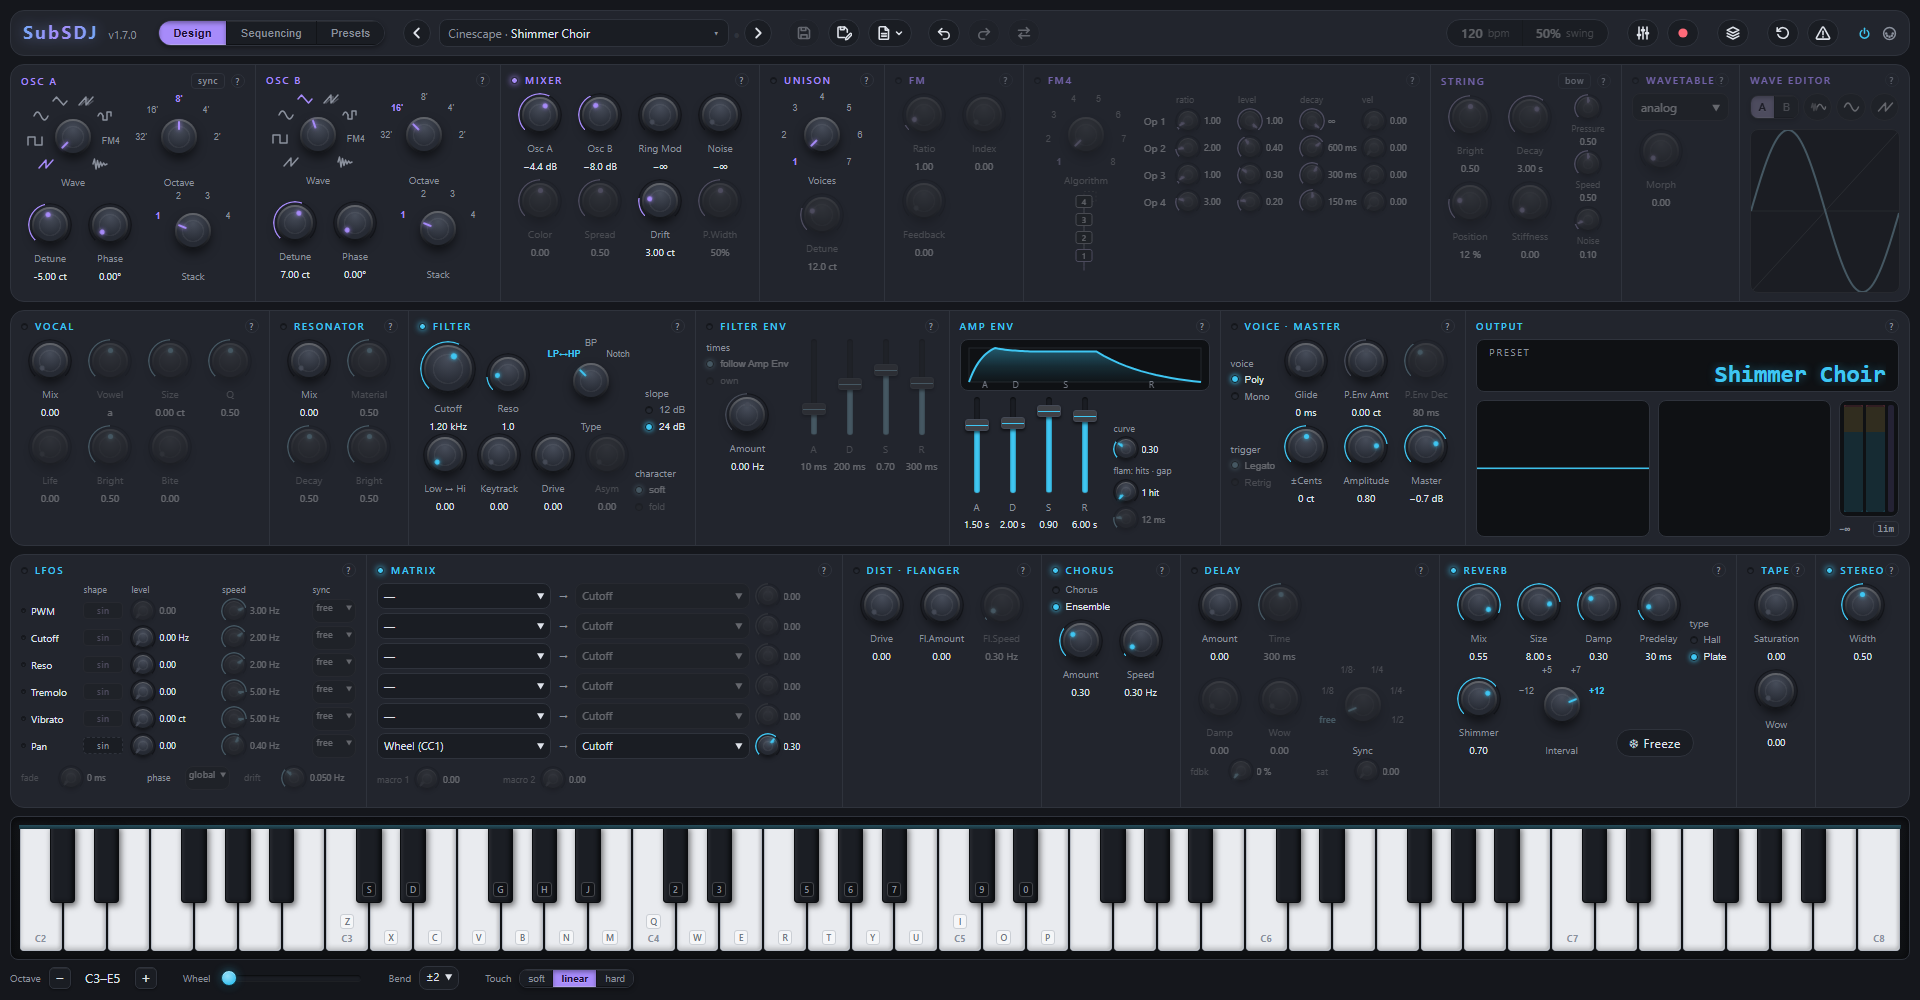
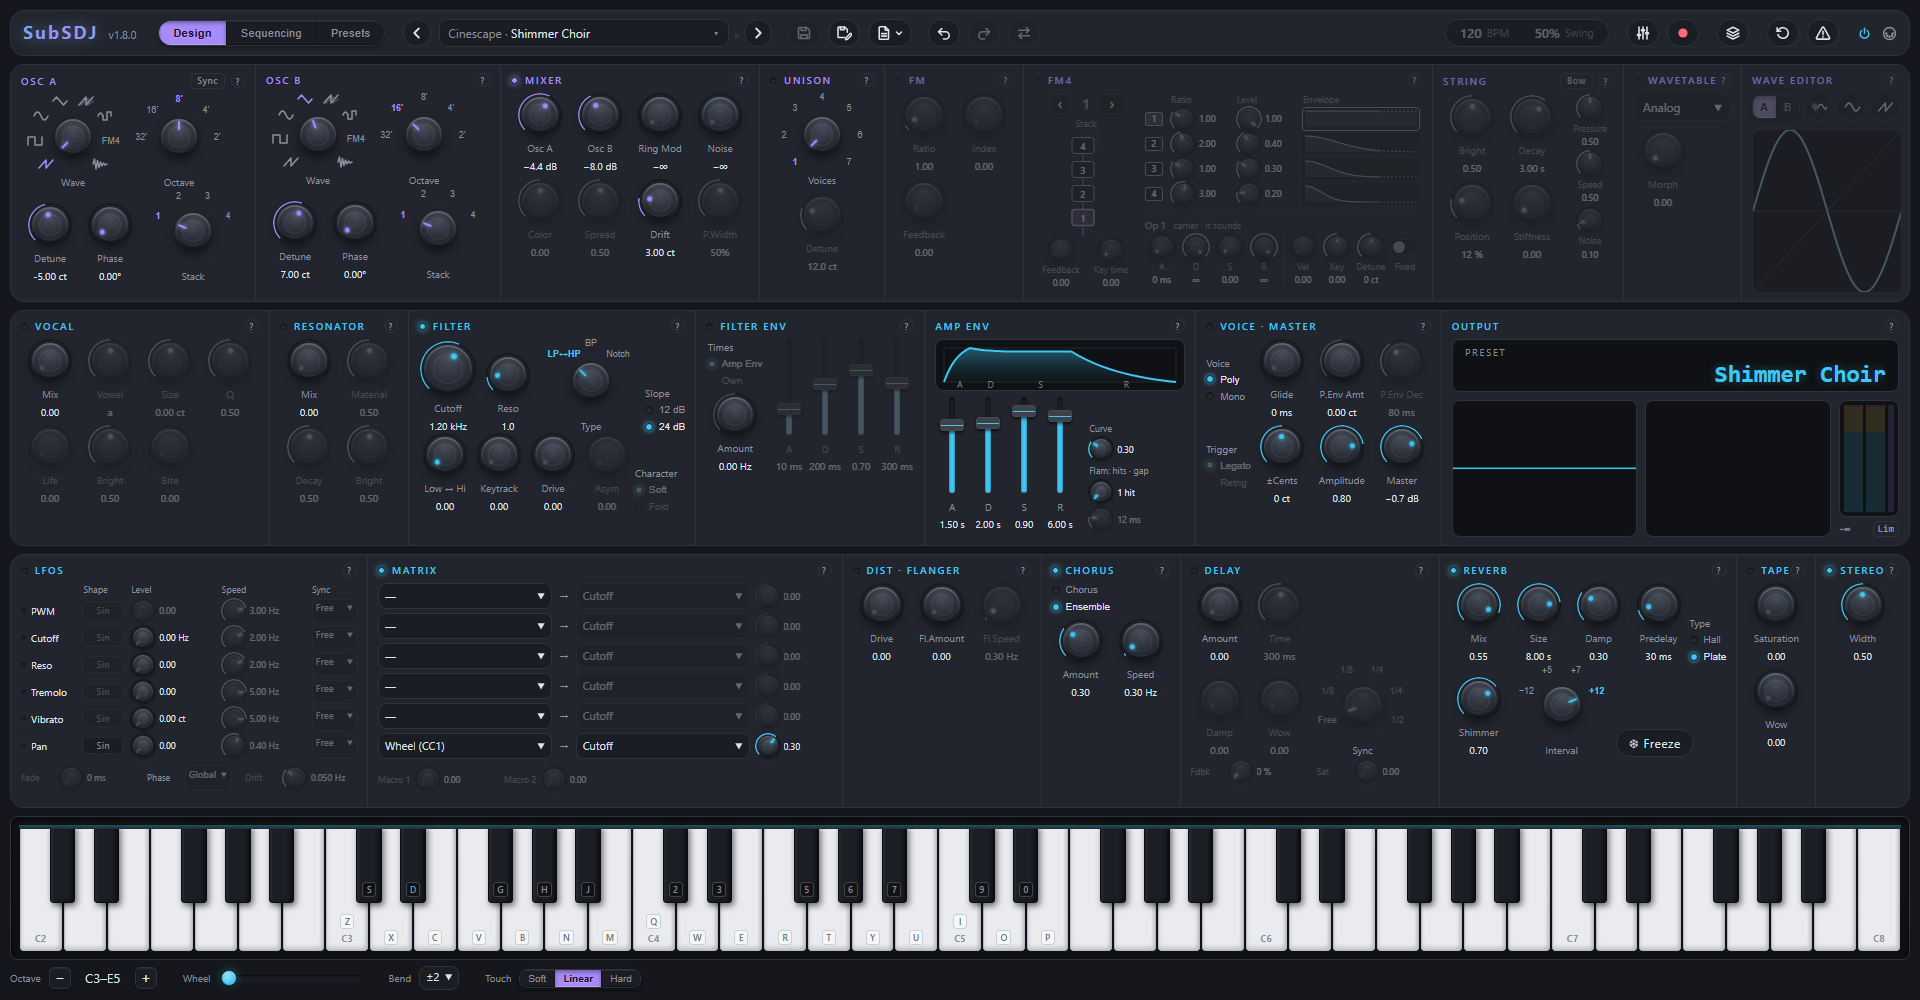
SubSDJ 1.8.0: FM4 done well, your own phrases, Init is the start
Each FM4 operator gets an ADSR, key scaling, detune and a fixed
frequency, with a new panel; the sequencer keeps your phrases, records
them step by step, plays them in chords and keeps its melody across
units; Init is where the synth starts. Screenshots retaken.

diff --git a/js/version.js b/js/version.js
@@ -1,4 +1,4 @@
 // SubSDJ version: X.Y.Z (criteria in docs/DESIGN.md, «Versiones y publicación»).
 // It is shown next to the title, and the selftest requires it to be the first CHANGELOG entry.
-export const VERSION = '1.7.0';
-export const RELEASE = '2026-11-01';   // release date (the CHANGELOG one): shown by the welcome window
+export const VERSION = '1.8.0';
+export const RELEASE = '2026-11-02';   // release date (the CHANGELOG one): shown by the welcome window

diff --git a/CHANGELOG.md b/CHANGELOG.md
@@ -6,7 +6,15 @@ features, **X** = something saved stops loading or sounding the same (presets,
 scenes, libraries, MIDI maps). The why behind each module is in
 [docs/DESIGN.md](docs/DESIGN.md), the development notebook.
 
-## Unreleased
+## [1.8.0] — 2026-11-02
+
+The FM4 grows up and the sequencer's phrases become yours. Each FM4 operator gets a whole
+**envelope** (A D S R), **key scaling** (time and level around C4), **detune** and a **fixed
+frequency**, with a new panel that shows the algorithm large and every operator's envelope as it
+runs. The sequencer keeps **your own phrases**, records them **step by step** from any keyboard,
+plays them in **chords** and keeps its melody when you change units; a **lock** holds the module
+across presets. **Init** is now the one place the synth starts from. Nothing saved changes:
+presets, scenes, libraries and MIDI maps load and sound as before.
 
 - **The sequencer's units keep the melody.** The selector next to the phrases used to change only
   what the numbers meant, so picking a scale turned a phrase into another melody. Now, picking a
